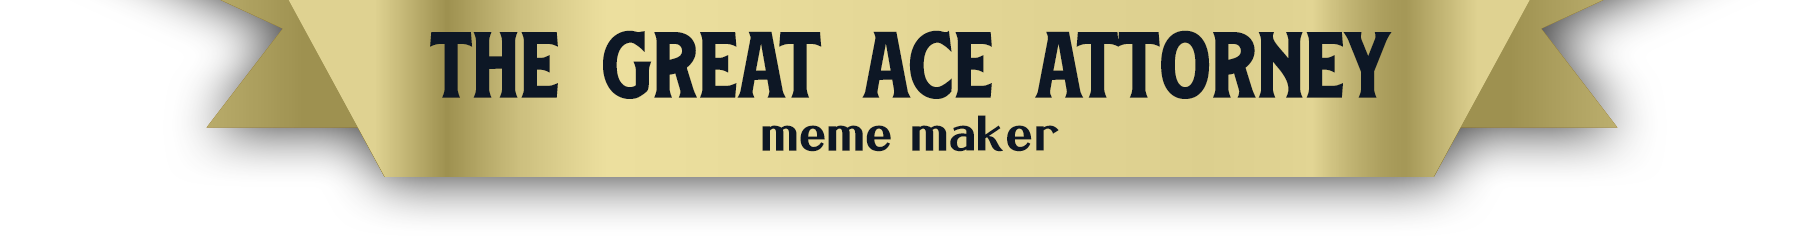
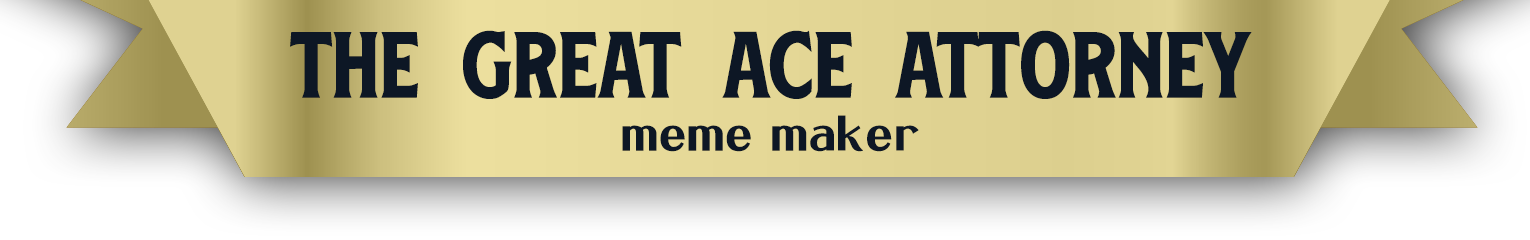
Update header image width

diff --git a/style.css b/style.css
@@ -51,11 +51,16 @@ header{
   font-style: italic;
 }
 
-#banner,
+#banner{
+  width: 520px;
+  max-width: 100%;
+}
+
 #spoiler-warning > *{
   width: 650px;
   max-width: 100%;
 }
+
 
 #spoiler-warning > *{
   width: 440px;
@@ -978,7 +983,7 @@ details summary{
   }
 }
 
-@media (max-width: 775px){
+@media (max-width: 800px){
   #info-bar{
     position: initial;
     border: none;

diff --git a/meme-generator.js b/meme-generator.js
@@ -209,7 +209,7 @@ window.addEventListener('resize', determineStickyCanvas)
 
 function padBody(){
 
-  document.body.style.paddingBottom = window.innerWidth < 775
+  document.body.style.paddingBottom = window.innerWidth < 800
     ? '30px'
     : document.querySelector('#info-bar').offsetHeight + 'px'
 
